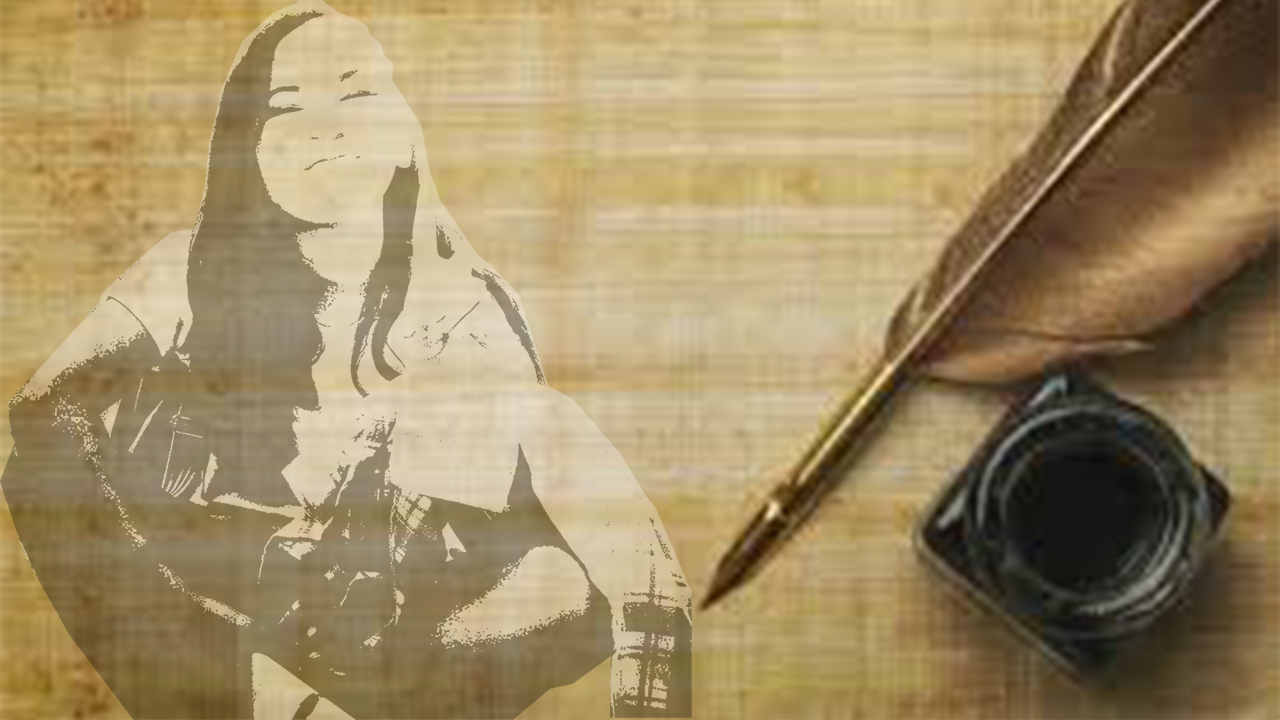
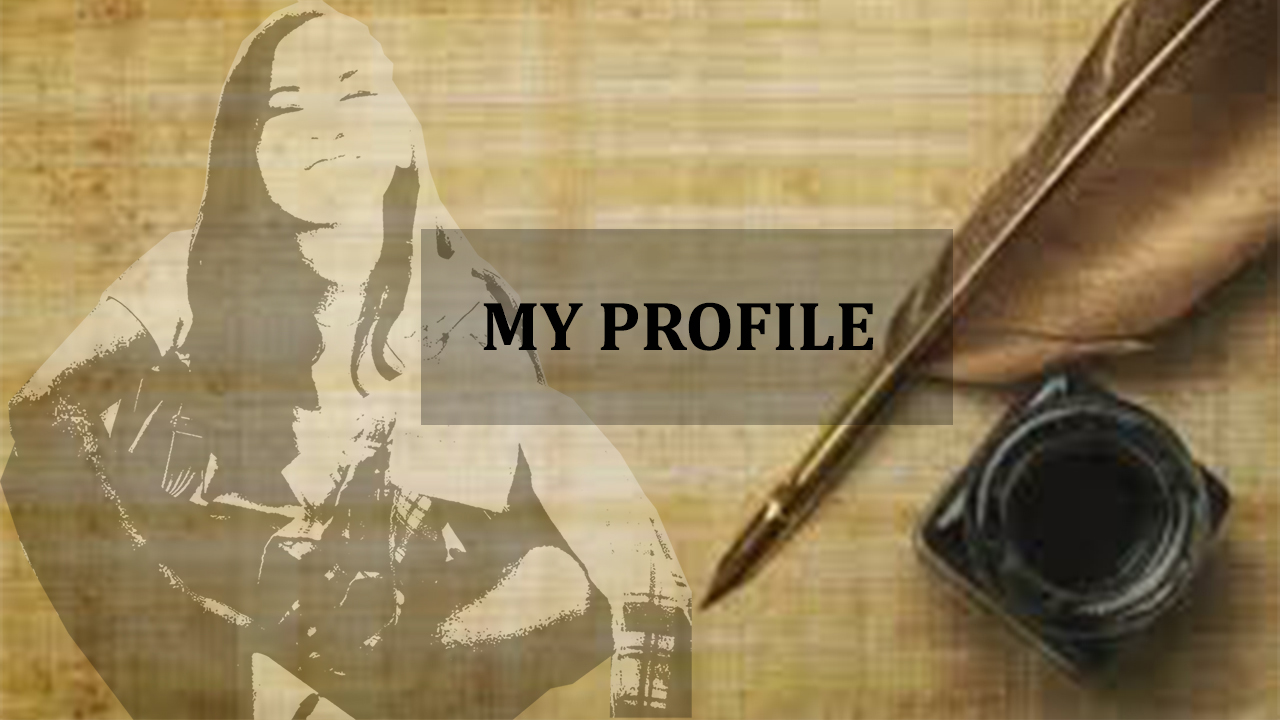
Images inserted but subject for changes.

Changed region(s): [[0.3125, 0.3056, 0.75, 0.6111]]

diff --git a/Start.html b/Start.html
@@ -21,6 +21,12 @@
 		<a href="#Contact" class="nav-button nav-bar-item">Contact</a>
 </nav>
 
+<!--for animation purposes-->
+<section>
+		<img class="Images" src="images/backgroundImage.jpg" style="width:100%">
+		<img class="Images" src="images/pe.jpg" style="width:100%">
+		<img class="Images" src="images/sm.jpeg" style="width:100%">
+</section>
 </body>
 
 
